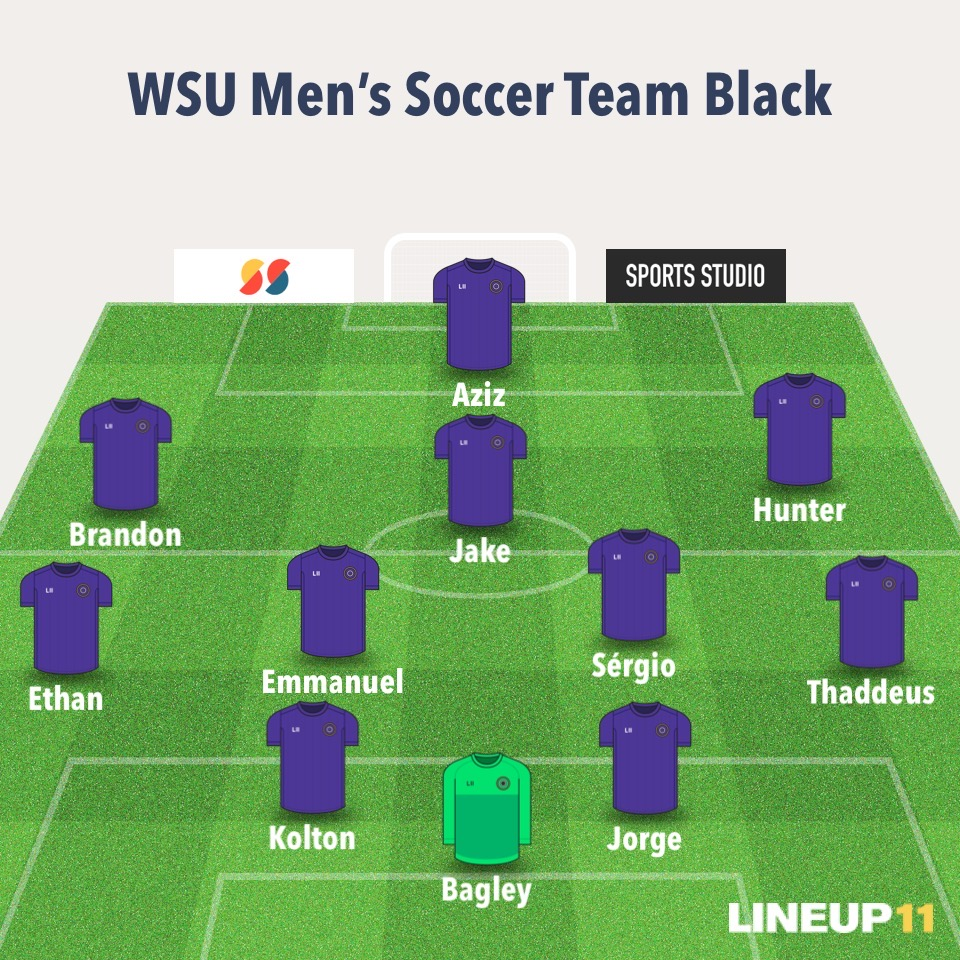
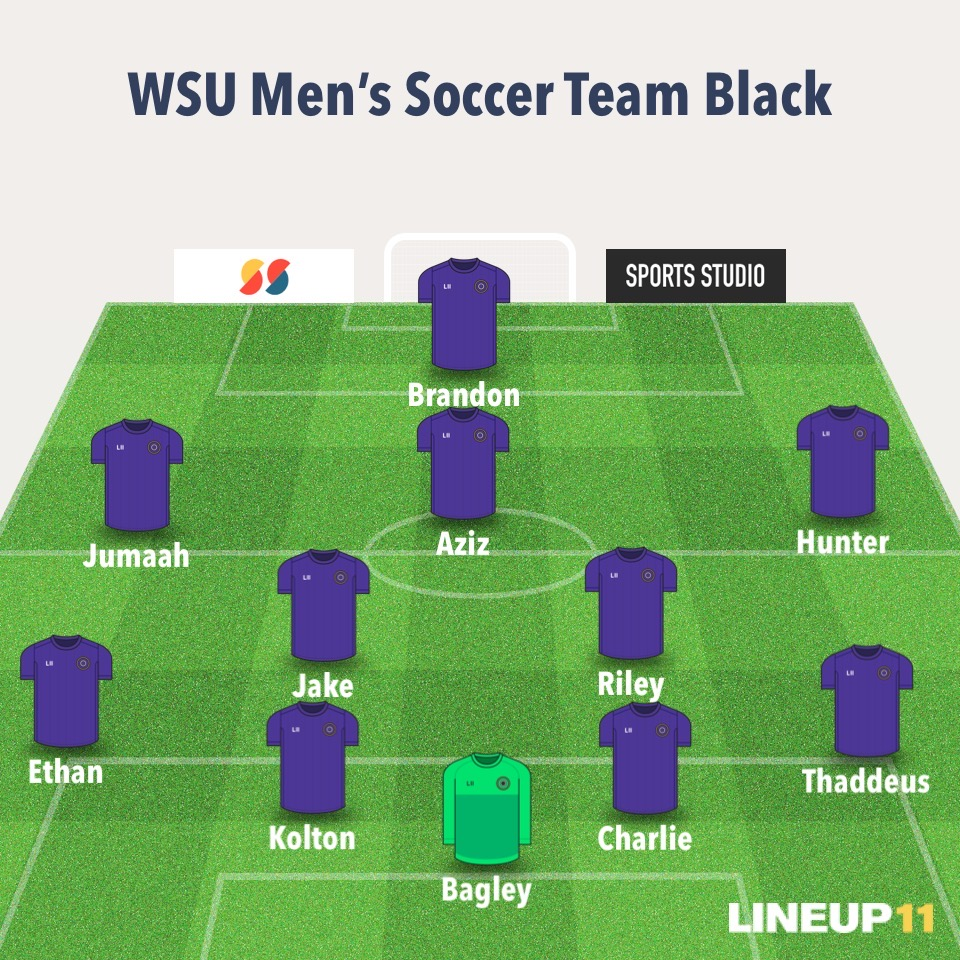
Sept 30 2022

diff --git a/index.html b/index.html
@@ -95,48 +95,48 @@
                         <td class="game"><p>Jumaah Alfaihani <br><em><small>#94</small></em></p></td>
                     </tr>
                     <tr>
-                        <td class="game"><p>Said Isa <br><em><small>#17</small></em></p></td>
-                        <td class="game"><p>Thaddeus Pappadakis <br><em><small>#18</small></em></p></td>
                         <td class="practice"><p>Agustin Torena <br><em><small></small></em></p></td>
-                    </tr>
-                    <tr>
                         <td class="practice"><p>Luis Arce<br><em><small></small></em></p></td>
                         <td class="practice"><p>Luis Jordan<br></p></td>
+                    </tr>
+                    <tr>
                         <td class="practice"><p>Will Naughton <br><em><small></small></em></p></td>
+                        <td><p><br></p></td>
+                        <td><p><br></p></td>
                     </tr>
 
                     <th colspan="3">Midfielders</th>
                     <tr>
                         <td class="game"><p>Asher Jensen <br><em><small>#71</small></em></p></td>
-                        <td class="game"><p>Charly Nuñez <br><em><small>#8</small></em></p></td>
                         <td class="game"><p>Gabe Juarez <br><em><small>#21</small></em></p></td>
+                        <td class="game"><p>Jake Williams <br><em><small>#19</small></em></p></td>
                     </tr>
                     <tr>
-                        <td class="game"><p>Jake Williams <br><em><small>#19</small></em></p></td>
                         <td class="game"><p>Patrick Hollmen<br><em><small>#29</small></em></p></td>
                         <td class="game"><p>Riley Wright <br><em><small>#10</small></em></p></td>
+                        <td class="game"><p>Sergio Payá <br><em><small>#9</small></em></p></td>
                     </tr>
                     <tr>
-                        <td class="game"><p>Sergio Payá <br><em><small>#9</small></em></p></td>
-                        <td class="game"><p>Santiago Tano <br><em><small>#12</small></em></p></td>
                         <td class="game"><p>Teegan Smith <br><em><small>#25</small></em></p></td>
+                        <td><p><br></p></td>
+                        <td><p><br></p></td>
                     </tr>
 
                     <th colspan="3">Defenders</th>
                     <tr>
+                        <td class="game"><p>Charly Nuñez <br><em><small>#4</small></em></p></td>
+                        <td class="game"><p>Cooper Sargent<br><em><small>#6</small></em></p></td>
                         <td class="game"><p>Ethan Barnette<br><em><small>#3</small></em></p></td>
+                    </tr>
+                    <tr>
                         <td class="game"><p>James Patten<br><em><small>#14</small></em></p></td>
                         <td class="game"><p>Jorge Benitez <br><em><small>#26</small></em></p></td>
+                        <td class="game"><p>Kaden Hecker <br><em><small>#2</small></em></p></td>
                     </tr>
                     <tr>
-                        <td class="game"><p>Kaden Hecker <br><em><small>#2</small></em></p></td>
                         <td class="game"><p>Kolton Kitchin <br><em><small>#24</small></em></p></td>
                         <td class="game"><p>Kontey Simpore <br><em><small>#16</small></em></p></td>
-                    </tr>
-                    <tr>
-                        <td class="practice"><p>Cooper Sargent<br><em><small>#6</small></em></p></td>
-                        <td><p><br></p></td>
-                        <td><p><br></p></td>
+                        <td class="game"><p>Thaddeus Pappadakis <br><em><small>#18</small></em></p></td>
                     </tr>
                     <th colspan="3">Goalkeeper</th>
                     <tr>
@@ -154,6 +154,25 @@
                     <a href="./img/lineup.jpeg" target="_blank"><img src="./img/lineup.jpeg"></a>
                     <figcaption>Formation: 4-2-3-1</figcaption>
                 </figure>
+                <table>
+                    <tr>
+                        <td class="label">Captains:</td>
+                        <td class="player">Kolton Kitchin</td>
+                        <td class="player">Tyler Bagley</td>
+                    </tr>
+                    <tr>
+                        <td class="label">Free-Kick:</td>
+                        <td class="player" colspan="2">Aziz</td>
+                    </tr>
+                    <tr>
+                        <td class="label">Penalty-Kick:</td>
+                        <td class="player" colspan="2">Ethan Barnette</td>
+                    </tr>
+                    <tr>
+                        <td class="label">Corners:</td>
+                        <td class="player" colspan="2">Jake Williams</td>
+                    </tr>
+                </table>
             </section>
 
             <section id="Contact">

diff --git a/css/stylesheet.css b/css/stylesheet.css
@@ -221,7 +221,6 @@ footer p{
 
 tr {
     background: #f4f7f8;
-    /* margin-bottom: 5px; */
 }
   
 th, td {
@@ -272,6 +271,18 @@ td p:hover {
 
 #Line-up figure{
     margin: 1% 0%;
+}
+
+#Line-up table{
+    display: flex;
+    align-content: center;
+    justify-content: center;
+    margin-bottom: 2%;
+}
+
+#Line-up .player{
+    background-color: purple;
+    color: white;
 }
 
 #Contact{

diff --git a/html/order.html b/html/order.html
@@ -42,7 +42,7 @@
             </tr>
             <tr class="game">
                 <td>Charly</td>
-                <td>8</td>
+                <td>4</td>
                 <td>Large</td>
                 <td>Large</td>
             </tr>
